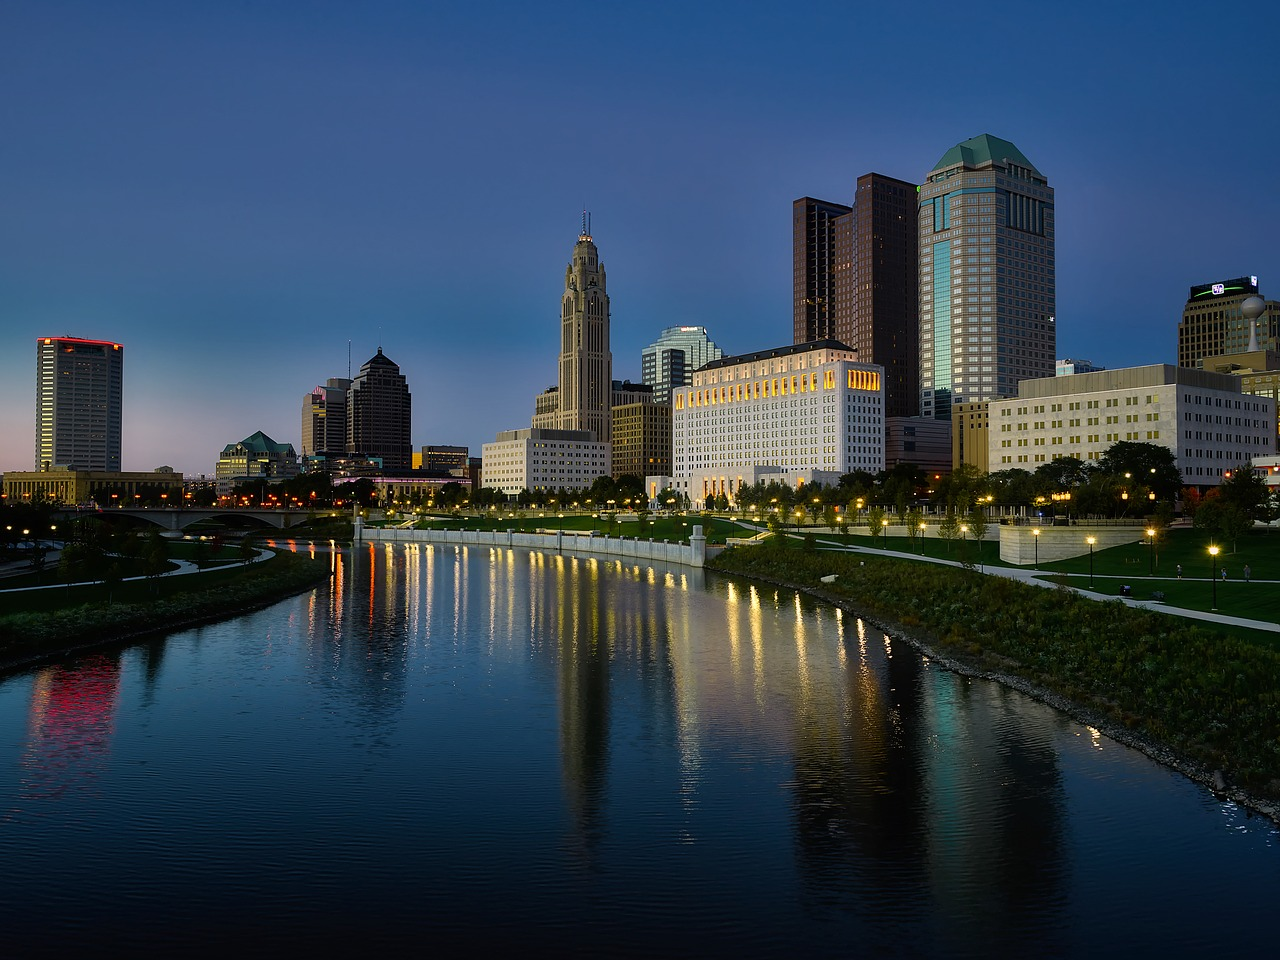
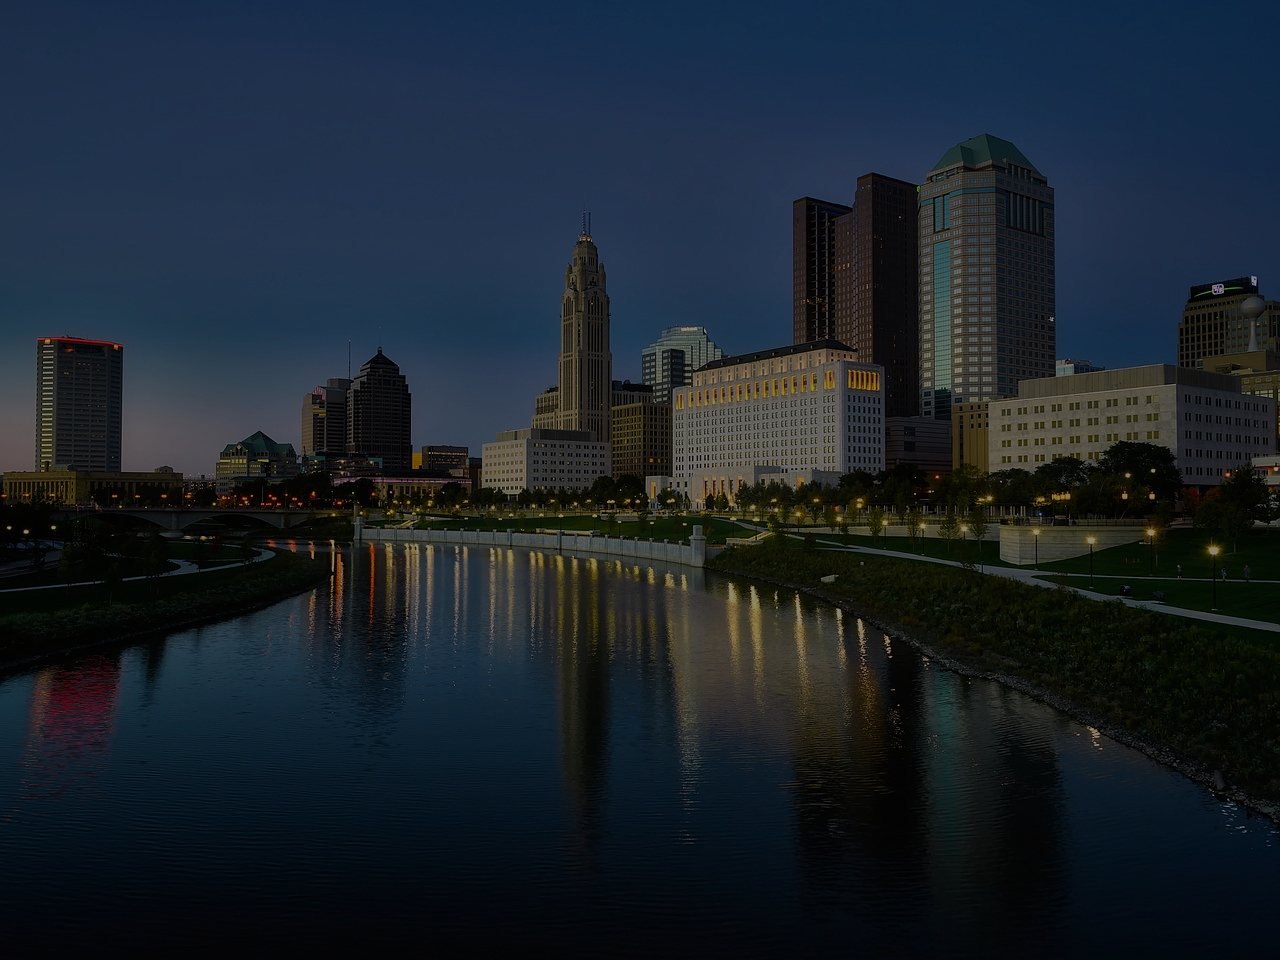
Fix parallax and white space on smaller screens

diff --git a/index.html b/index.html
@@ -62,9 +62,9 @@
     </header>
 
     <main>
-      <div class="parallax-container hide-on-med-and-down">
+      <div class="parallax-container">
         <div class="parallax">
-          <img class="darken" src="./assets//images//columbus.jpg" alt="Image of Code" />
+          <img src="./assets//images//columbus.jpg" alt="Image of Code" />
         </div>
       </div>
 
@@ -282,7 +282,7 @@
           </div>
       </div>
 
-      <div class="parallax-container hide-on-med-and-down">
+      <div class="parallax-container">
         <div class="parallax">
           <img src="./assets//images//code.jpg" alt="Image of Code" />
         </div>

diff --git a/assets/css/index.css b/assets/css/index.css
@@ -38,9 +38,13 @@ body {
   .card-about {
     height: 100% !important;
   }
-  .colap-about {
-    width: 100vw;
+  .parallax-container {
+    height: 200px !important;
   }
+}
+
+.parallax-container {
+  height: 100%;
 }
 
 .break {
@@ -70,12 +74,6 @@ body {
 
 blockquote {
   border-left: 5px solid #f5f5f5 !important;
-}
-
-.darken {
-  -webkit-filter: brightness(40%);
-          filter: brightness(40%);
-  width: 100vw;
 }
 
 .parallax-container {

diff --git a/assets/css/index.scss b/assets/css/index.scss
@@ -45,6 +45,14 @@ body {
   .card-about {
     height: 100% !important;
   }
+
+  .parallax-container {
+    height: 200px !important;
+  }
+}
+
+.parallax-container {
+  height: 100%;
 }
 
 .break {
@@ -74,11 +82,6 @@ body {
 
 blockquote {
   border-left: 5px solid #f5f5f5 !important;
-}
-
-.darken {
-  filter: brightness(40%);
-  width: 100vw;
 }
 
 .parallax-container {
